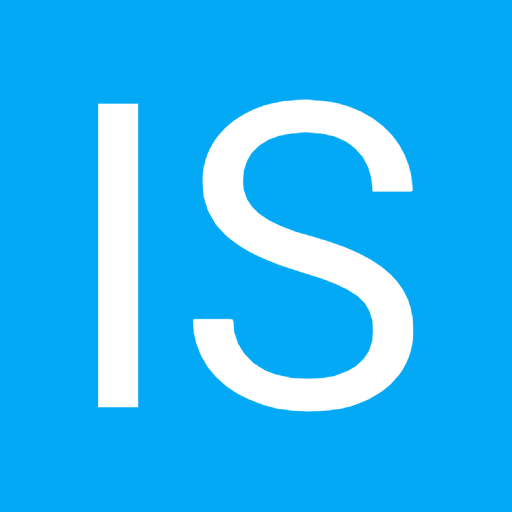
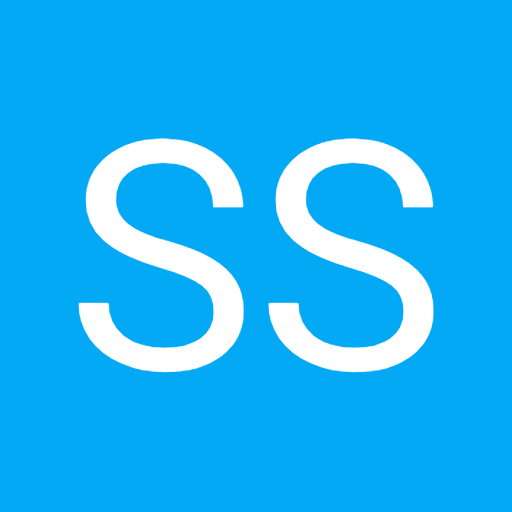
SpaceShift

Changed region(s): [[0.1562, 0.1875, 0.875, 0.8125]]

diff --git a/src/templates/VerticalFeatures.tsx b/src/templates/VerticalFeatures.tsx
@@ -5,12 +5,12 @@ import { Section } from '../layout/Section';
 
 const VerticalFeatures = () => (
   <Section
-    title="What is InstantStaff?"
-    description="InstantStaff is an innovative online marketplace that connects child and aged care centers with the best candidates for their casual jobs through real-time notifications. With InstantStaff, care centers can quickly fill their shifts with qualified staff in a matter of minutes, while workers can easily find and apply for the most suitable job opportunities."
+    title="What is SpaceShift?"
+    description="SpaceShift is an innovative online marketplace that connects child and aged care centers with the best candidates for their casual jobs through real-time notifications. With SpaceShift, care centers can quickly fill their shifts with qualified staff in a matter of minutes, while workers can easily find and apply for the most suitable job opportunities."
   >
     <VerticalFeatureRow
       title="Revolutionizing Child and Aged Care Staffing: The Advantages of Our Real-Time Marketplace"
-      description="With InstantStaff, finding reliable workers for your last-minute positions has never been easier. Say goodbye to the headache of staffing and hello to hassle-free hiring."
+      description="With SpaceShift, finding reliable workers for your last-minute positions has never been easier. Say goodbye to the headache of staffing and hello to hassle-free hiring."
       details={
         <Fragment>
           <p className="py-2">
@@ -24,9 +24,8 @@ const VerticalFeatures = () => (
           </p>
           <p className="py-2">
             <span className="font-bold">2.Real-time notifications:</span>{' '}
-            InstantStaff&apos;s real-time notifications can help child care and
-            aged care centers to quickly and easily find workers when they need
-            them.
+            ShiftHeo&apos;s real-time notifications can help child care and aged
+            care centers to quickly and easily find workers when they need them.
           </p>
           <p className="py-2">
             <span className="font-bold">3.Reduced administrative burden:</span>{' '}

diff --git a/src/pages/intro.tsx b/src/pages/intro.tsx
@@ -20,7 +20,7 @@ const Intro = () => {
         <Section yPadding="pt-20 pb-32">
           <div className="flex flex-col flex-wrap justify-between items-center">
             <h2 className="mb-8 text-2xl font-semibold">
-              Posting a job and applying for jobs with InstantStaff are easy
+              Posting a job and applying for jobs with SpaceShift are easy
             </h2>
             <div className="flex flex-row justify-center items-center">
               <table className="shadow-lg bg-white">

diff --git a/src/templates/Banner.tsx b/src/templates/Banner.tsx
@@ -7,7 +7,7 @@ import { Section } from '../layout/Section';
 const Banner = () => (
   <Section>
     <CTABanner
-      title="Join our community today and experience the benefits of InstantStaff."
+      title="Join our community today and experience the benefits of SpaceShift."
       subtitle="Let us help you find the right worker or the perfect job!"
       primaryButton={
         <Link href="/centers">

diff --git a/src/utils/AppConfig.ts b/src/utils/AppConfig.ts
@@ -1,5 +1,5 @@
 export const AppConfig = {
-  site_name: 'InstantStaff',
+  site_name: 'SpaceShift',
   title: "One-Click Solution For Child Care and Aged Care's On-Demand Hiring",
   description: "A marketplace for child care and aged care's casual workers",
   locale: 'en',
